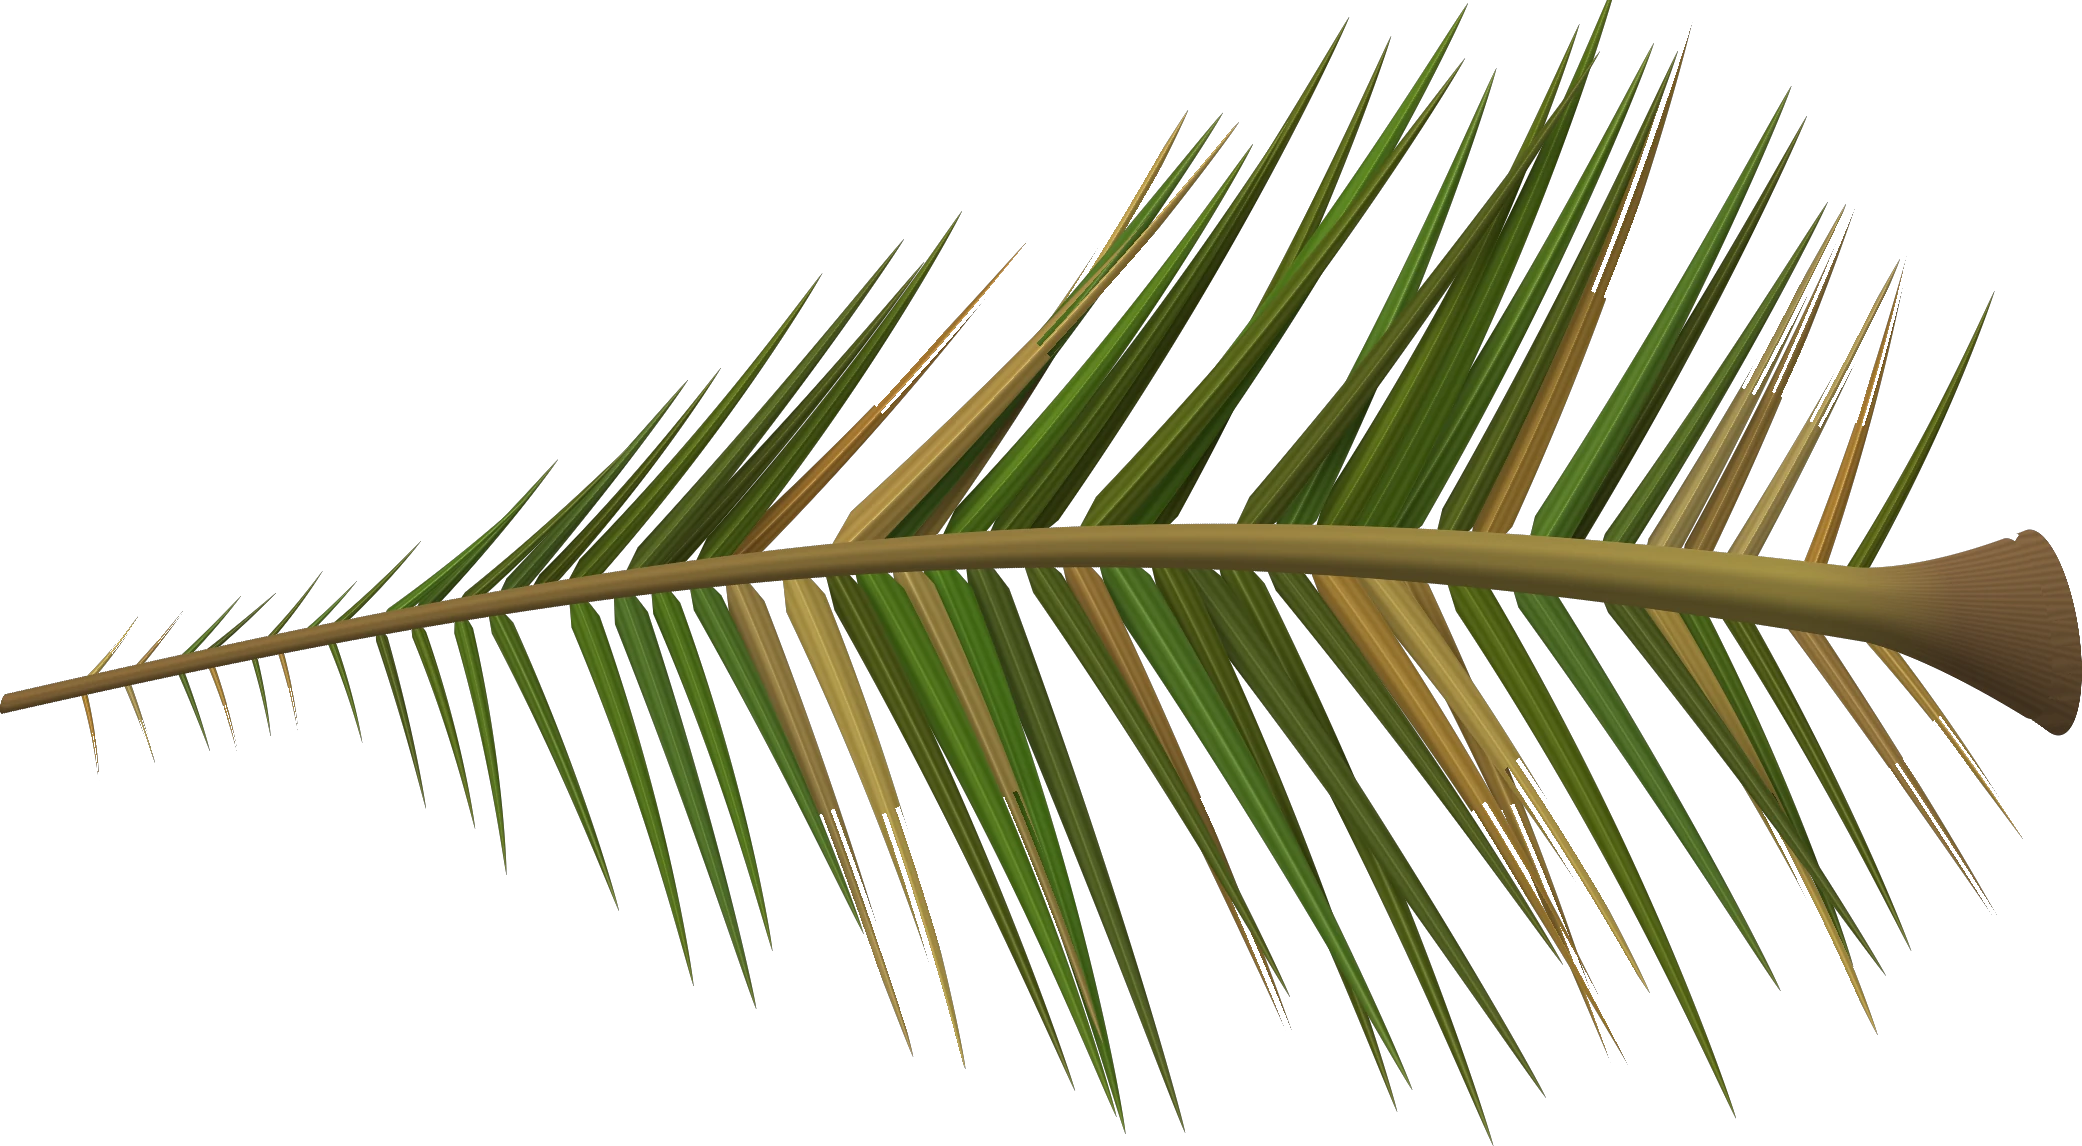
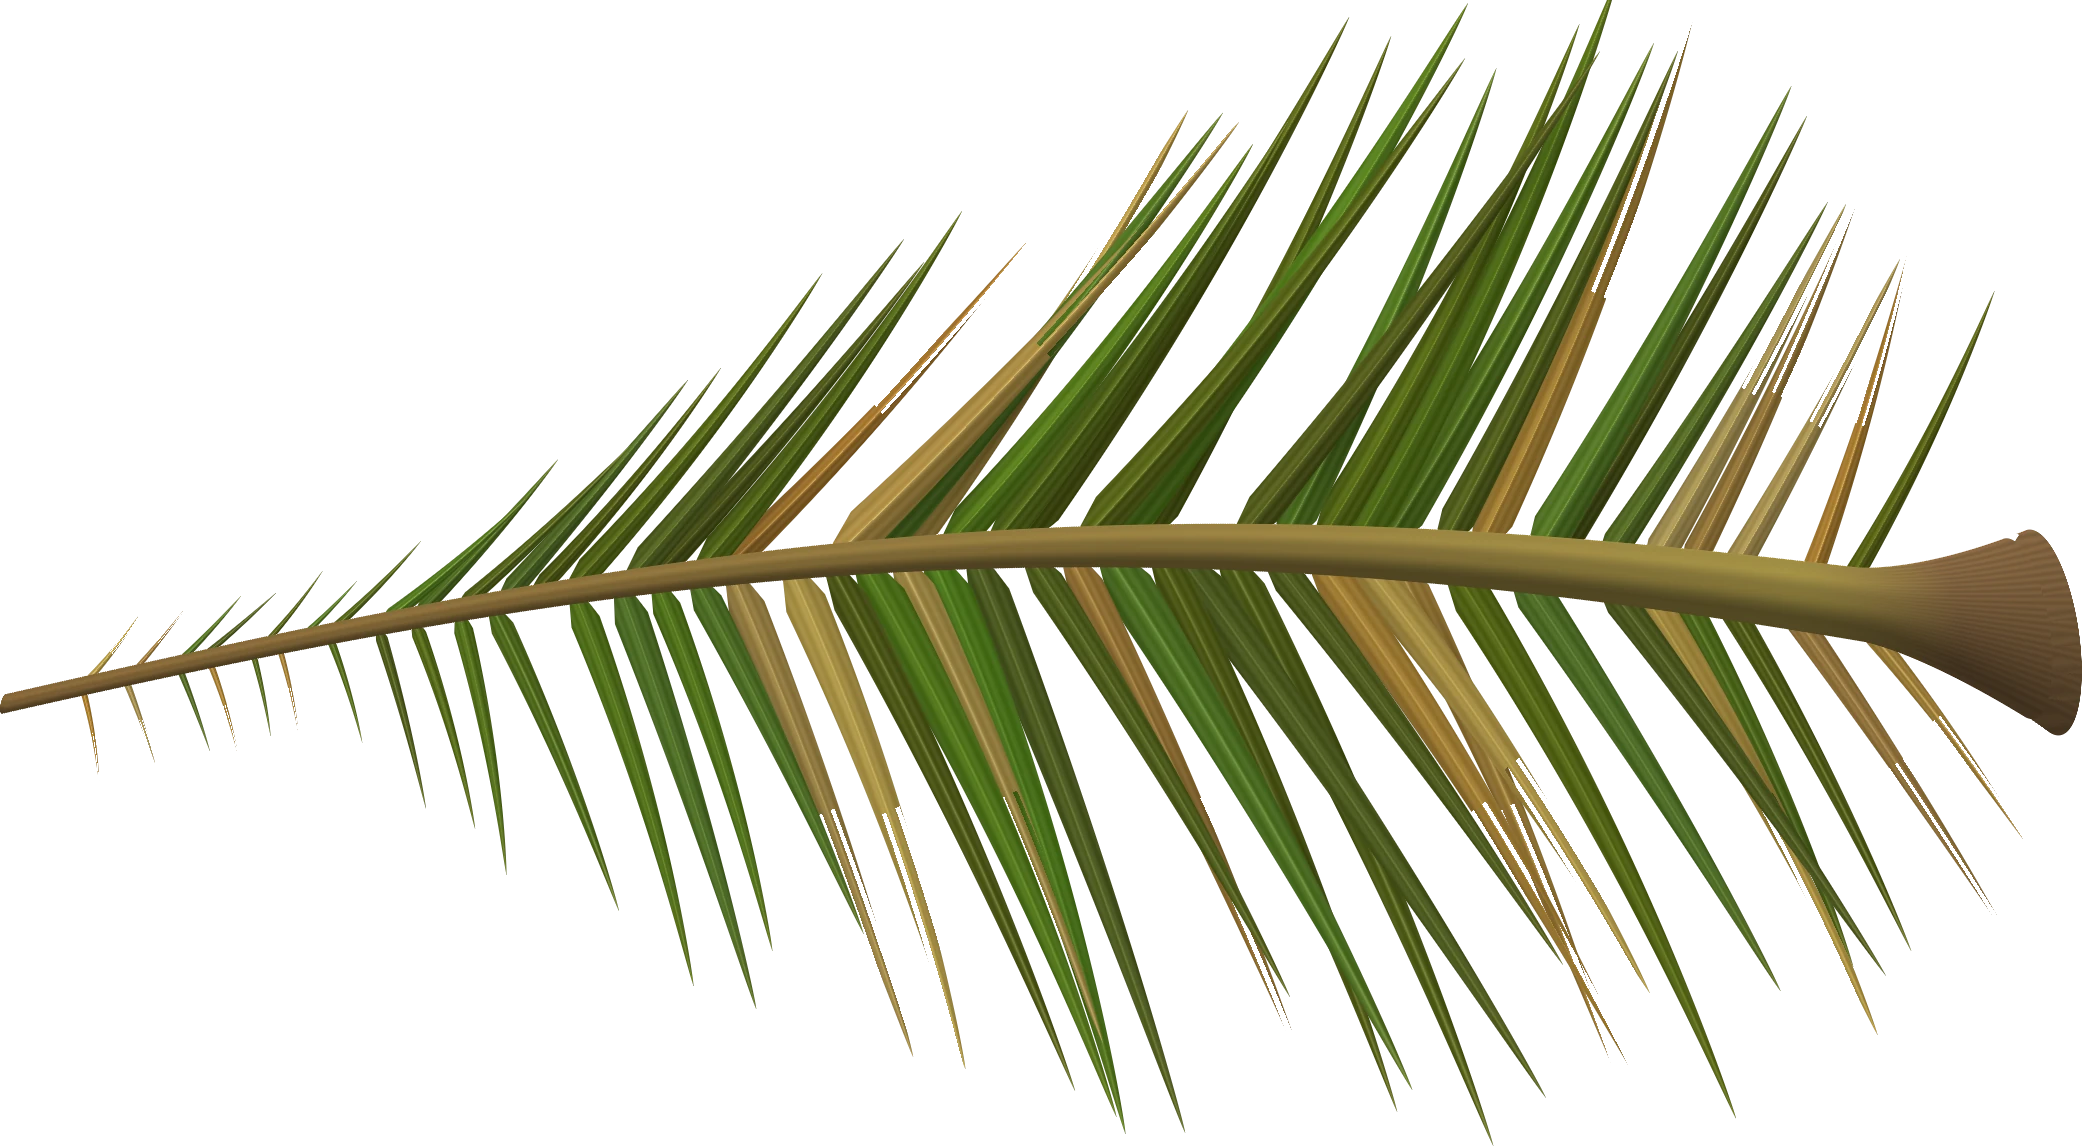
oaq: tàu dừa hết viền đen lởm chởm (bỏ nhân alpha 2 lần), bóng nhạt
Claude-Session: https://claude.ai/code/session_01TQanobV4trnR46FjZ3o1gf

diff --git a/src/tools/oq/tau_dua.py b/src/tools/oq/tau_dua.py
@@ -78,7 +78,7 @@ def paint(mirror):
 		o = max(2, int(LN * 0.004))
 		shp = np.zeros_like(sh); shp[o:, o:] = sh[:-o, :-o]
 		sim = np.asarray(Image.fromarray((shp * 255).astype(np.uint8)).filter(ImageFilter.GaussianBlur(o)), np.float32) / 255
-		col[Y0:Y1, X0:X1] *= (1 - 0.45 * sim * (1 - inside))[..., None]
+		col[Y0:Y1, X0:X1] *= (1 - 0.22 * sim * (1 - inside))[..., None]
 		a_ = inside
 		col[Y0:Y1, X0:X1] = col[Y0:Y1, X0:X1] * (1 - a_[..., None]) + np.clip(c, 0, 1) * a_[..., None]
 		al[Y0:Y1, X0:X1] = al[Y0:Y1, X0:X1] + a_ * (1 - al[Y0:Y1, X0:X1])
@@ -105,7 +105,9 @@ def paint(mirror):
 		c = base * lam[..., None] * 1.12
 		col[Y0:Y1, X0:X1] = col[Y0:Y1, X0:X1] * (1 - ins[..., None]) + np.clip(c, 0, 1) * ins[..., None]
 		al[Y0:Y1, X0:X1] = np.maximum(al[Y0:Y1, X0:X1], ins)
-	img = np.dstack([np.clip(col, 0, 1) * 255, np.clip(al, 0, 1) * 255]).astype(np.uint8)
+	# col đang là màu đã nhân alpha (phủ lên nền đen) -> chia lại cho alpha, không thì mép lá ra viền đen lởm chởm (Link 11-23)
+	rgb = np.where(al[..., None] > 1e-3, col / np.maximum(al[..., None], 1e-3), 0)
+	img = np.dstack([np.clip(rgb, 0, 1) * 255, np.clip(al, 0, 1) * 255]).astype(np.uint8)
 	im = Image.fromarray(img, "RGBA")
 	bb = im.getbbox(); im = im.crop(bb)
 	return im, bb
